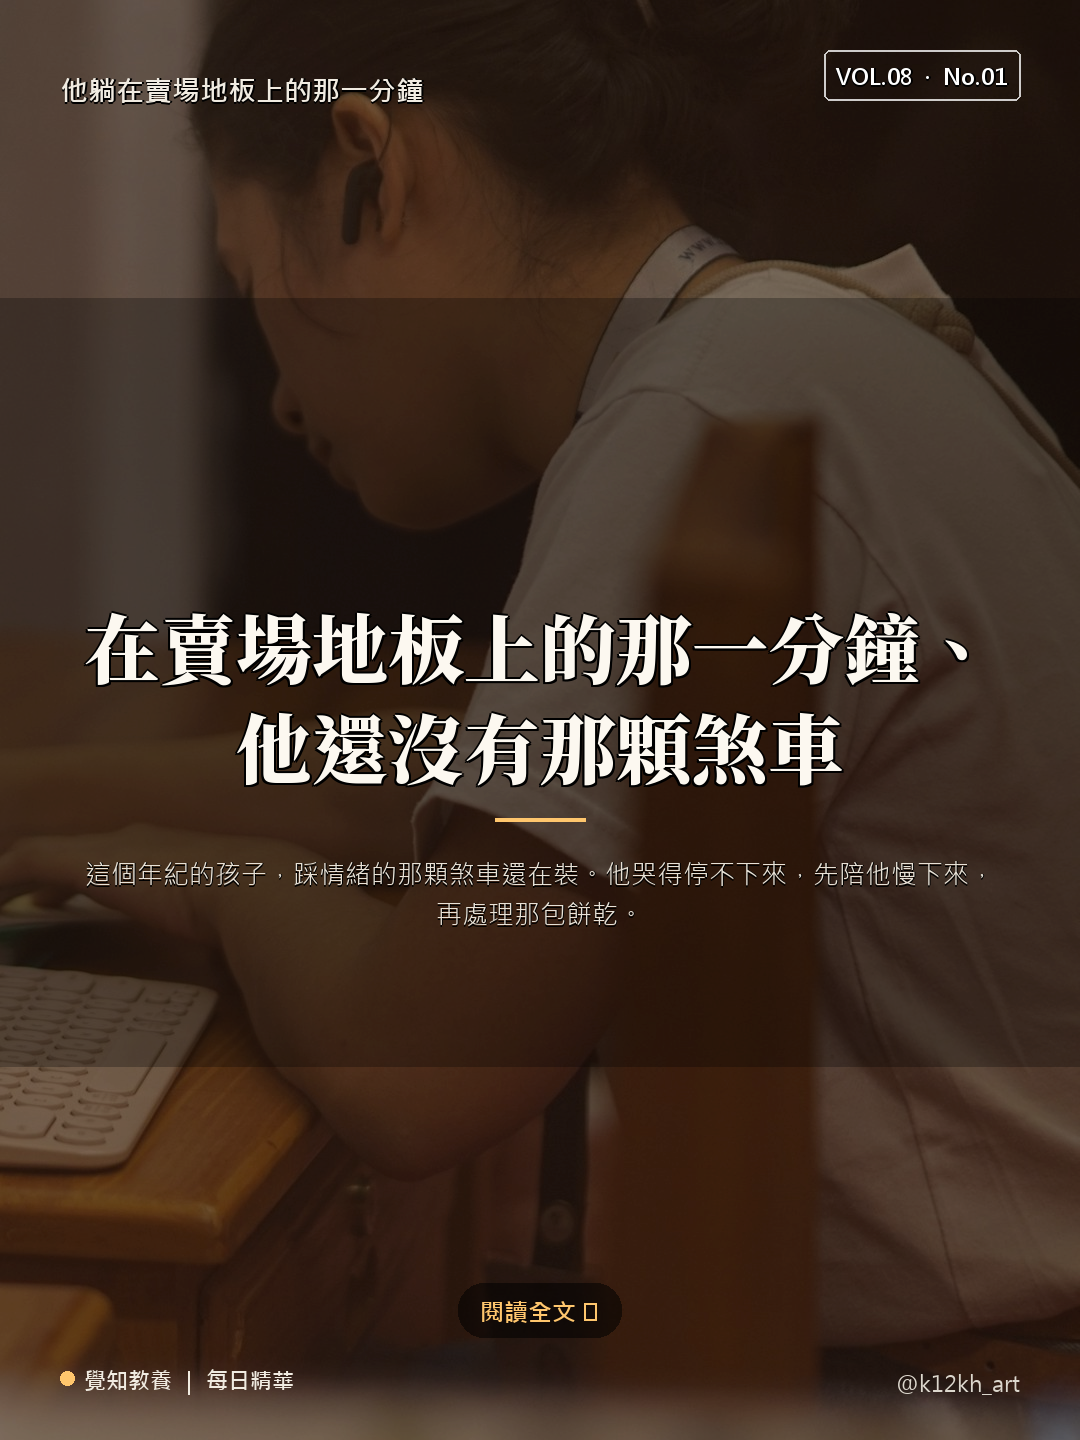
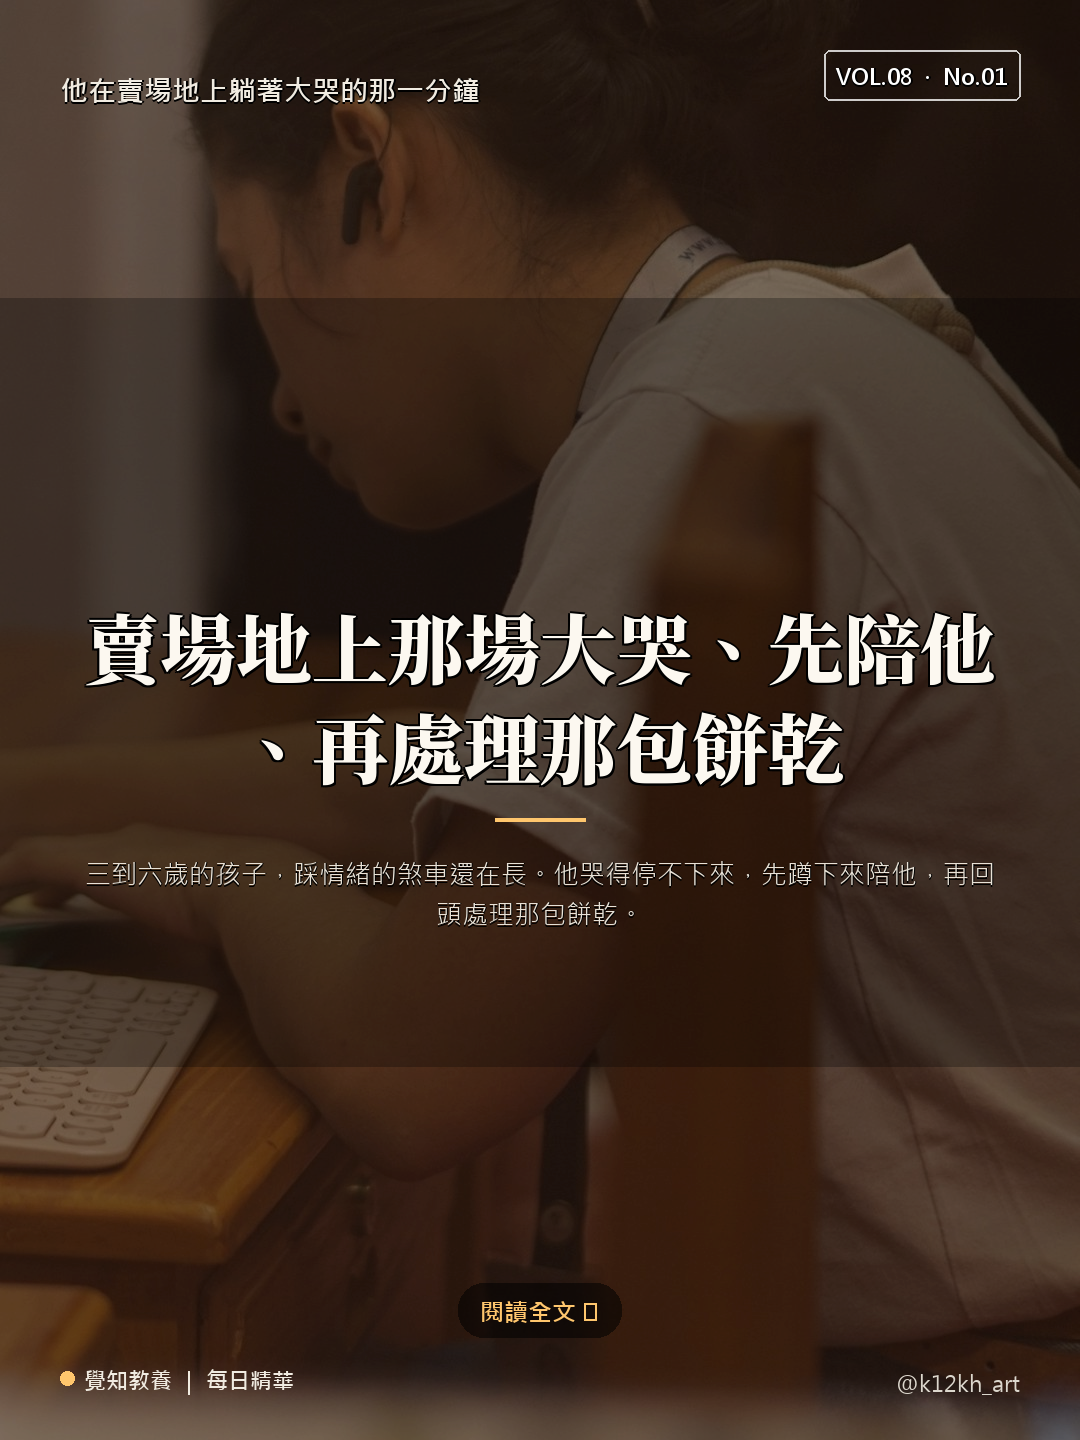
auto: dailynews update 2026-08-01 16:38 TW

diff --git a/2026-08/parenting_essence_2026-08-01.html b/2026-08/parenting_essence_2026-08-01.html
@@ -3,16 +3,16 @@
 <head>
   <meta charset="utf-8">
   <meta name="viewport" content="width=device-width, initial-scale=1.0">
-  <title>結帳前的那條走道，他躺下去了 ｜ 覺知教養．每日精華</title>
+  <title>小小孩在賣場躺地上大哭，那句「再吵就回家」其實他聽不懂 ｜ 覺知教養．每日精華</title>
   <meta name="description" content="賣場結帳前的走道，推車卡在中間，後面有人在等，他整個人躺了下去。「再吵我們就回家」——這句話你幾乎是反射講出來的。這一篇把那一分鐘倒帶：三到六歲的孩子，聽到的其實不是那條規矩。他聽到的是『我一難過，就會被帶走』。他停不下來，因為踩情緒的那顆煞車還在裝。文章拆解同一段話重來一次可以怎麼說，也講最難的那件事——家長自己的三十秒。">
   <meta name="keywords" content="賣場崩潰,結帳前哭鬧,躺地上,情緒風暴,情緒調節,幼兒情緒,3到6歲,啟蒙班,學齡前,再吵就回家,前額葉,油門煞車,親子溝通,先站到旁邊,先陪他慢下來,覺知教養,覺知素養,心智光譜,SEL,社會情緒學習">
-  <meta name="share-title" content="在賣場地板上的那一分鐘，他還沒有那顆煞車">
+  <meta name="share-title" content="賣場地上那場大哭，先陪他，再處理那包餅乾">
   <meta name="share-tint" content="warm-amber">
   <meta name="share-palette" content="blush">
   <meta name="hero-title-pos" content="left">
-  <meta name="share-teaser" content="他躺在賣場地板上的那一分鐘">
-  <meta name="share-explainer" content="這個年紀的孩子，踩情緒的那顆煞車還在裝。他哭得停不下來，先陪他慢下來，再處理那包餅乾。">
-  <meta name="share-highlight" content="那顆煞車還在裝">
+  <meta name="share-teaser" content="他在賣場地上躺著大哭的那一分鐘">
+  <meta name="share-explainer" content="三到六歲的孩子，踩情緒的煞車還在長。他哭得停不下來，先蹲下來陪他，再回頭處理那包餅乾。">
+  <meta name="share-highlight" content="先蹲下來陪他">
   <meta name="share-cta" content="">
   <style>
 /* base placeholder — post_essence.py 會注入 v13 完整設計於此 */
@@ -2731,7 +2731,7 @@ body .body section {
 
 <!-- Open Graph -->
 <meta property="og:type" content="article">
-<meta property="og:title" content="結帳前的那條走道，他躺下去了">
+<meta property="og:title" content="小小孩在賣場躺地上大哭，那句「再吵就回家」其實他聽不懂">
 <meta property="og:description" content="賣場結帳前的走道，推車卡在中間，後面有人在等，他整個人躺了下去。「再吵我們就回家」——這句話你幾乎是反射講出來的。這一篇把那一分鐘倒帶：三到六歲的孩子，聽到的其實不是那條規矩。他聽到的是『我一難過，就會被帶走』。他停不下來，因為踩情緒的那顆煞車還在裝。文章拆解同一段話重來一次可以怎麼說，也講最難的那件事——家長自己的三十秒。">
 <meta property="og:image" content="https://zway-education.github.io/education-dailynews/2026-08/parenting_essence_2026-08-01_share.png">
 <meta property="og:url" content="https://zway-education.github.io/education-dailynews/2026-08/parenting_essence_2026-08-01.html">
@@ -2743,7 +2743,7 @@ body .body section {
 
 <!-- Twitter Card -->
 <meta name="twitter:card" content="summary_large_image">
-<meta name="twitter:title" content="在賣場地板上的那一分鐘，他還沒有那顆煞車">
+<meta name="twitter:title" content="賣場地上那場大哭，先陪他，再處理那包餅乾">
 <meta name="twitter:description" content="賣場結帳前的走道，推車卡在中間，後面有人在等，他整個人躺了下去。「再吵我們就回家」——這句話你幾乎是反射講出來的。這一篇把那一分鐘倒帶：三到六歲的孩子，聽到的其實不是那條規矩。他聽到的是『我一難過，就會被帶走』。他停不下來，因為踩情緒的那顆煞車還在裝。文章拆解同一段話重來一次可以怎麼說，也講最難的那件事——家長自己的三十秒。">
 <meta name="twitter:image" content="https://zway-education.github.io/education-dailynews/2026-08/parenting_essence_2026-08-01_share.png">
 
@@ -2752,7 +2752,7 @@ body .body section {
 {
   "@context": "https://schema.org",
   "@type": "Article",
-  "headline": "結帳前的那條走道，他躺下去了",
+  "headline": "小小孩在賣場躺地上大哭，那句「再吵就回家」其實他聽不懂",
   "description": "賣場結帳前的走道，推車卡在中間，後面有人在等，他整個人躺了下去。「再吵我們就回家」——這句話你幾乎是反射講出來的。這一篇把那一分鐘倒帶：三到六歲的孩子，聽到的其實不是那條規矩。他聽到的是『我一難過，就會被帶走』。他停不下來，因為踩情緒的那顆煞車還在裝。文章拆解同一段話重來一次可以怎麼說，也講最難的那件事——家長自己的三十秒。",
   "image": [
     "https://zway-education.github.io/education-dailynews/2026-08/parenting_essence_2026-08-01_share.png"
@@ -2785,7 +2785,7 @@ body .body section {
 
   <header class="head">
     <div class="tag">覺知教養 ｜ 每日精華</div>
-    <h1>結帳前的那條走道，他躺下去了</h1>
+    <h1>小小孩在賣場躺地上大哭，那句「再吵就回家」其實他聽不懂</h1>
     <div class="meta">
       <span class="datebadge">2026-08-01 ｜ 週六</span>
       <span class="age">覺知．啟蒙班（3-6 歲）</span>
@@ -2819,6 +2819,7 @@ body .body section {
       <p>那如果重來一次，可以怎麼做？不用背什麼標準句子，方向只有一個：先讓他知道你在，再來處理那包餅乾。</p><p>你可以蹲下來，蹲到他的高度，先講他的心情，不急著講道理：「你很想要那個，對不對？我知道。」這句話不會讓他馬上不哭，可是它把訊息換掉了——他難過的時候，你是靠過來的，不是要把他帶走的。接著給他一個具體的下一步，而不是一個威脅：「我們先到旁邊站一下，等你好一點，我們再一起走。」</p><p>如果他還是停不下來，就把他帶離現場一下——這不是處罰。只是換一個沒有那麼多眼睛的地方，讓他把情緒放完。你不用把話講滿，陪著就好。真正難的，其實不是他那一分鐘。是你自己的那三十秒——後面有人在等、你也累了一天，要在那個當下先穩住自己，比什麼技巧都難。你能穩住你的三十秒，他才有機會學會踩他自己的煞車。</p>
     </section>
   </article>
+
 
   <div class="outro-wrap">
     <section class="outro">

diff --git a/index.html b/index.html
@@ -2973,7 +2973,7 @@ body{
 
 <a class="card is-latest theme-orange" href="2026-08/parenting_essence_2026-08-01.html" data-axis="sat" data-age="cross">
     <div class="card-tags"><span class="age">覺知．啟蒙班（3-6 歲）</span><span class="axis">週六 ｜ 家庭氛圍與儀式感</span></div>
-    <h3 class="card-title">結帳前的那條走道，他躺下去了</h3>
+    <h3 class="card-title">小小孩在賣場躺地上大哭，那句「再吵就回家」其實他聽不懂</h3>
     <p class="card-hook">「再吵我們就回家。」這句話，你幾乎是反射講出去的。結帳的隊伍前面，他手上那包餅乾被你放回架上，人就整個往地上坐、往下躺。推車卡在走道中間，後面有人在等，你一手扶著推車，一手想把他拉起來。那一分鐘很長，長到你覺得全場的人都在看你怎麼收場。</p>
     <span class="upload-date">2026-08-01&nbsp;&nbsp;週六</span>
     <span class="card-cta" style="margin-top:8px;">閱讀全文 &rarr;</span>
